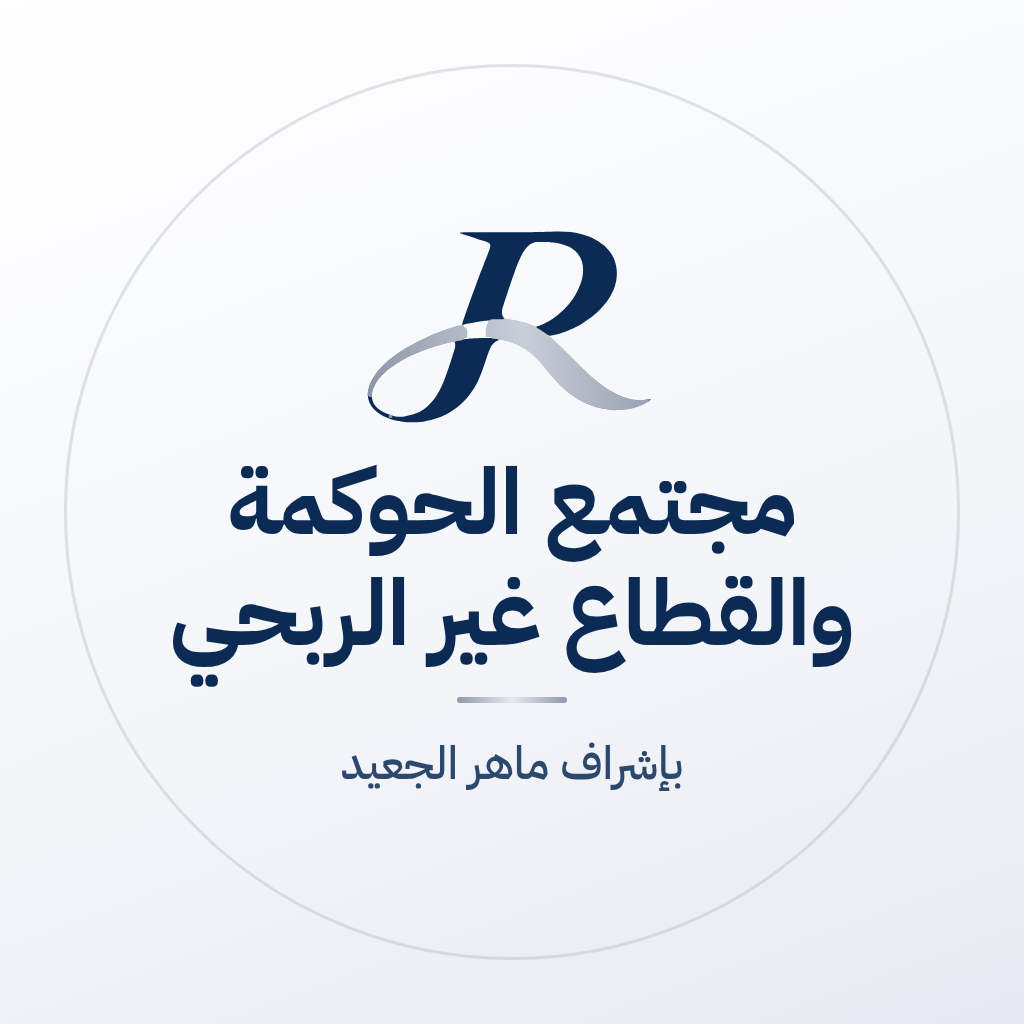
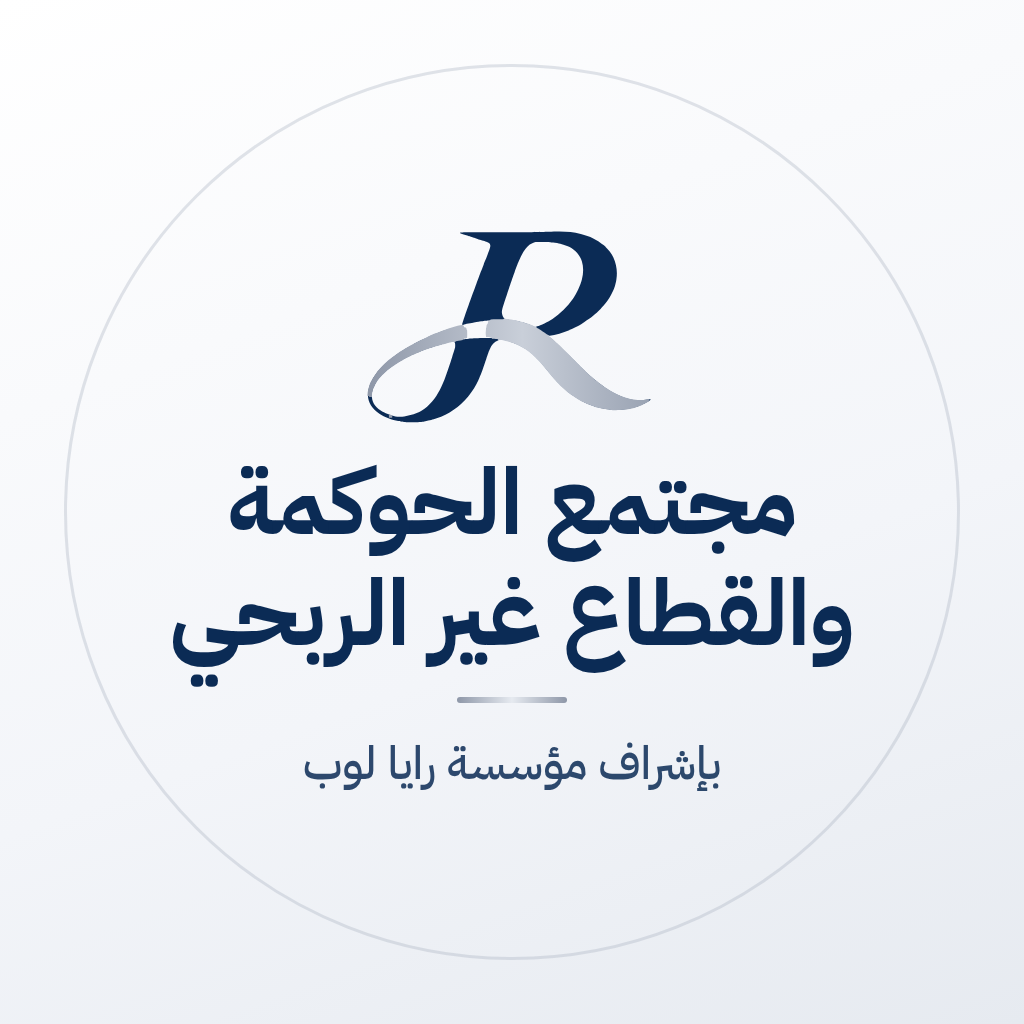
Credit Raya Loop as supervisor in survey footer, group description and group images
Claude-Session: https://claude.ai/code/session_01VbSttiKwBNHD2Y6eyLuNay

Changed region(s): [[0.2812, 0.7188, 0.7188, 0.7812]]

diff --git a/maher-survey.html b/maher-survey.html
@@ -60,7 +60,7 @@ footer{text-align:center;color:var(--muted);font-size:.85rem;padding:24px 0}
 <button type="submit" id="go">إرسال</button><p class="err" id="fail" role="alert"></p>
 </form>
 <div class="done" id="done" hidden><img src="assets/img/mark-color.svg" alt="" style="width:64px"><h2>وصلتنا إجابتكم، شكرًا لكم</h2><p>سنتواصل معكم قريبًا بإذن الله. وللاطلاع على خدماتنا: <a href="https://rayaloop.com">rayaloop.com</a></p></div>
-</main><footer>رايا لوب · بإشراف ماهر الجعيد</footer>
+</main><footer>بإشراف مؤسسة رايا لوب</footer>
 <script>
 (function(){
 var f=document.getElementById('sv'),go=document.getElementById('go'),fail=document.getElementById('fail');

diff --git a/maher.html b/maher.html
@@ -66,7 +66,7 @@ a:focus-visible{outline:3px solid var(--blue);outline-offset:2px}
 ٣. لا إعلانات أو روابط دون إذن المشرف.
 ٤. التواصل الخاص مع الأعضاء بعد استئذانهم.
 
-بإشراف ماهر الجعيد | رايا لوب
+بإشراف مؤسسة رايا لوب
 rayaloop.com</textarea></div>
 <div class="grid" style="margin-top:12px">
 <figure class="ic"><img src="dl/maher/group/group-navy.png" alt="صورة المجموعة كحلي" loading="lazy"><figcaption>كحلي</figcaption><div class="dl"><a href="dl/maher/group/group-navy.png" download>تحميل</a></div></figure>
